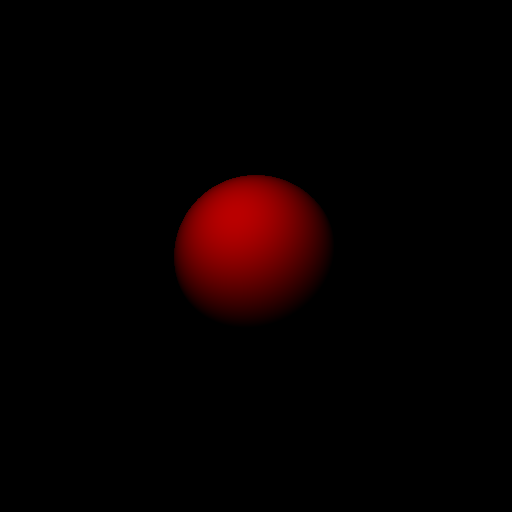
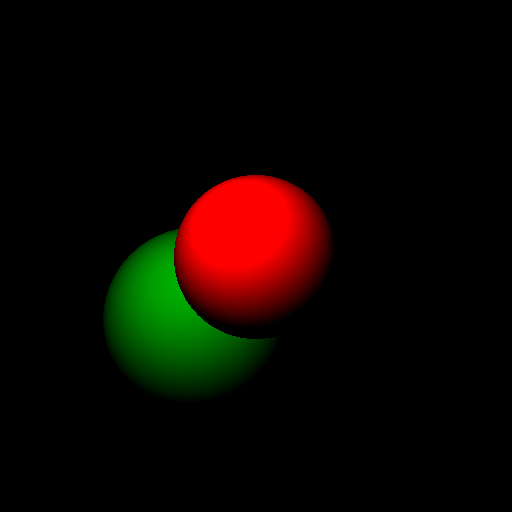
ajout de la fonctionnalite scene pour gérer plusieurs spheres

Changed region(s): [[0.1875, 0.3438, 0.6562, 0.7812]]

diff --git a/main.cpp b/main.cpp
@@ -7,6 +7,10 @@
 #define STB_IMAGE_IMPLEMENTATION
 #include "stb_image.h"
 
+#include <list>
+
+#include <iostream>
+
 
 
 
@@ -75,15 +79,18 @@ Vector C,u;
  
 class Sphere {
 public:
-	Sphere( const Vector& O, const double R) : O(O),R(R){
+	Sphere( const Vector& O, const double R, const Vector& rho) : O(O),R(R),rho(rho){
 
 };
 
-	bool intersect(const Ray& r , Vector& P, Vector& N) {
+	
+
+	bool intersect(const Ray& r , Vector& P, Vector& N, double& t) {
 		//solve a*t^2 +b*t +c = 0
 		double a =1;
 		double b= 2*dot(r.u , r.C - O );
 		double c= (r.C - O).norm2()- R*R;
+
 
 		double delta = b*b - 4*a*c;
 		if (delta < 0){
@@ -96,7 +103,7 @@ public:
 			return false;
 		}
 
-		double t;
+
 		if (t1>0){
 			t = t1;
 		}
@@ -113,6 +120,41 @@ public:
 	}
 		double R=R;
 		Vector O=O;
+		Vector rho=rho;
+
+};
+
+class Scene{
+	public:
+	Scene(){};
+	void addSphere(const Sphere& s) {spheres.push_back(s);}
+
+	bool intersect_scene(const Ray& r , Vector& P, Vector& N, int &rang_sphere){
+
+		bool inter_scene = false;
+		double t_min=1E99;
+
+		for (int i=0;i<spheres.size();i++){
+			Vector P_sphere, N_sphere;
+			double t;
+			bool inter_sphere = spheres[i].intersect(r,P_sphere,N_sphere,t);
+			if(inter_sphere){
+				inter_sphere=true;
+				if(t<t_min){
+					t_min=t;
+					P = P_sphere;
+					N= N_sphere;
+					rang_sphere=i;
+				}
+			}
+		}
+
+		return inter_scene;
+
+	}
+
+	std::vector<Sphere> spheres;
+	
 
 };
  
@@ -122,14 +164,31 @@ int main() {
 	int H = 512;
 	Vector C(0,0,55);
 
-	Sphere s(Vector(0,0,0),10);
+	Sphere s1(Vector(0,0,0),10,Vector(0,1,0)); //albedo vert (couleur de la sphère)
+	Sphere s2(Vector(-10,-10,-20),15,Vector(1,0,0)); //albedo rouge (couleur de la sphère)
+
+	std::vector<Sphere> spheres;
+	spheres.insert(spheres.begin(),s1);
+	spheres.insert(spheres.begin(),s2);
+
+	
+
+	Scene scene;
+	scene.addSphere(s1);
+	scene.addSphere(s2);
+
+
 	double fov=60*3.14/180;
 	double tanfov2 = tan(fov/2);
 
 	Vector lumiere_position(-10,20,40);
-	double intensite_lumiere = 3000000;
+	double intensite_lumiere = 6000000;
 
-	Vector rho(1,0,0); //albedo rouge (couleur de la sphère)
+	//std::cout << spheres[0].rho[1];
+
+	//Vector rho(1,0,0); 
+
+	
 
 	std::vector<unsigned char> image2(W * H * 3, 0);
 	for (int i = 0; i < H; i++) {
@@ -138,21 +197,24 @@ int main() {
 			Vector u(j-W/2+0.5, H-i-H/2+0.5,-W/(2*tanfov2));
 			u.normalize();
 			Ray r(C,u);
-			Vector P,N; 
-			bool inter = s.intersect(r,P,N);
+			Vector P,N;
+			int rang_sphere;
+
+			int inter = scene.intersect_scene(r,P,N,rang_sphere);
+	
 
 			double intensite_pixel=0.;
 
 			Vector l = (lumiere_position - P);
 			l.normalize();
 
-
-			if (inter){
+			
+			if (inter != -1){
 				intensite_pixel = intensite_lumiere * std::max(0.,dot(l,N)) / (4 * M_PI * (lumiere_position - P).norm2());
 				
-				image2[(i * W + j) * 3 + 0] = std::min(255.,std::max(0.,intensite_pixel))*rho[0];
-				image2[(i * W + j) * 3 + 1] = std::min(255.,std::max(0.,intensite_pixel))*rho[1];
-				image2[(i * W + j) * 3 + 2] = std::min(255.,std::max(0.,intensite_pixel))*rho[2];
+				image2[(i * W + j) * 3 + 0] = std::min(255.,std::max(0.,intensite_pixel))*spheres[rang_sphere].rho[0];
+				image2[(i * W + j) * 3 + 1] = std::min(255.,std::max(0.,intensite_pixel))*spheres[rang_sphere].rho[1];
+				image2[(i * W + j) * 3 + 2] = std::min(255.,std::max(0.,intensite_pixel))*spheres[rang_sphere].rho[2];
 			}
 		
 
